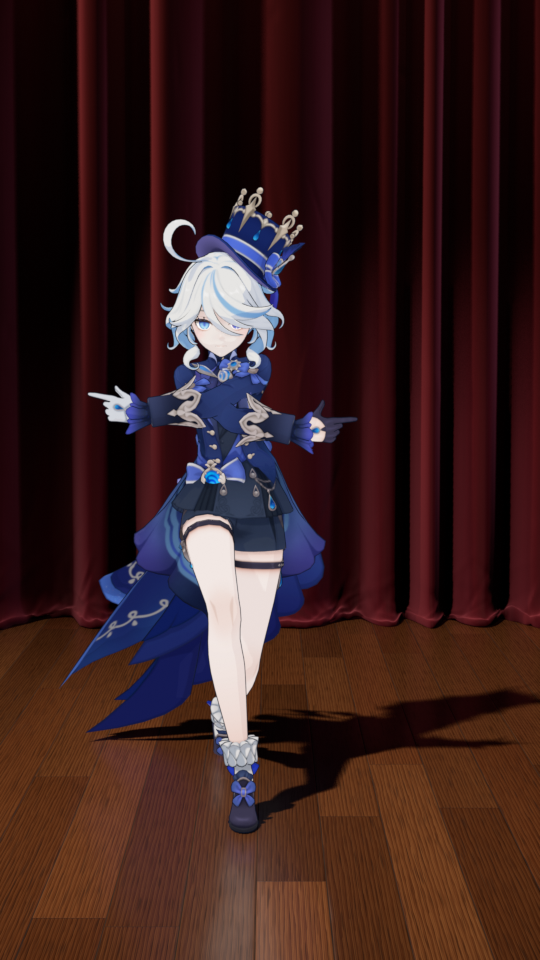
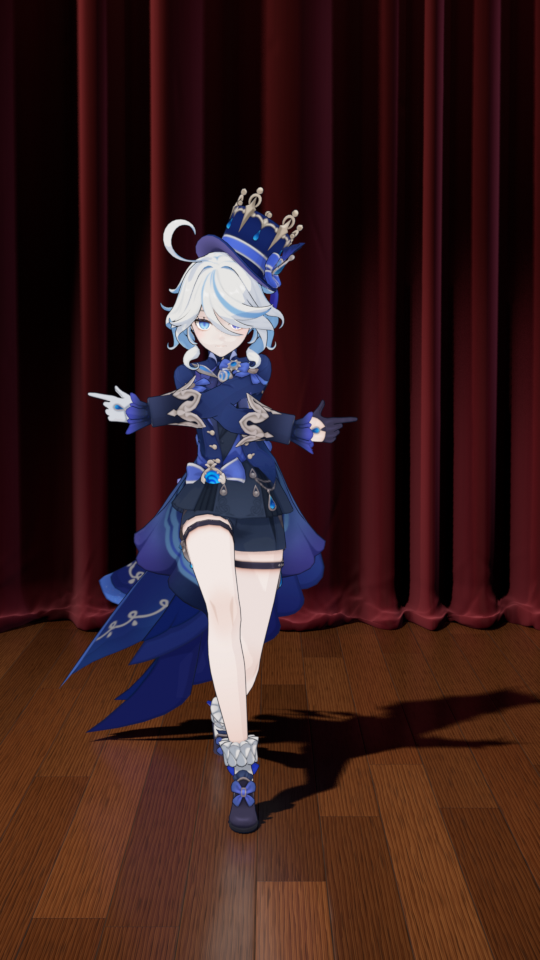
Furina stage: more curtain fabric pooled on the floor (HEM_POOL)
Claude-Session: https://claude.ai/code/session_01L4cWoHW4TJS3VpJN3nyY7z

diff --git a/furina_stage/add_stage.py b/furina_stage/add_stage.py
@@ -48,6 +48,8 @@ STAGE_FRONT_Y = -3.4     # 台口前沿
 # bunch_* 堆叠区（每隔多少米一处、挤多紧），drift 褶沿高度左右漂移，wobble 褶沿高度变深变浅
 CURTAIN_DRAPE = dict(mean_w=0.12, depth=0.11, sigma=0.3, bunch_every=3.0, bunch_amp=(0.3, 0.9),
                      drift=0.06, wobble=0.18, n_creases=200, crease_amp=(0.0015, 0.005))
+# 大幕落地堆布：forward 向台前鼓出多远，height 鼓包多高，nose 最前面折边的圆弧半径，lumps 揉皱起伏（米）
+HEM_POOL = dict(forward=0.14, forward_var=0.045, height=0.17, height_var=0.04, nose=0.026, lumps=0.014)
 PLANK_W = 0.15           # 地板条宽
 PLANK_L = 2.1            # 地板条长
 # 木纹公式的输入参数，每块板在基准值上随机浮动的比例（0.08 = ±8%）
@@ -556,9 +558,11 @@ def hanging_curtain(name, x0, x1, y0, height, rng, mat, coll, mean_w=0.2, depth=
     # 每一处堆布的尺寸沿宽度缓慢变化：鼓包向前伸 Ry、高 Rz，折边圆弧半径 r，藏在下面的布长 tail
     n1, n2 = _smooth_noise(rng, x0, x1, 0.3), _smooth_noise(rng, x0, x1, 0.9)
     big = 0.5 * n1(xs) + 0.5 * n2(xs)
-    Ry = np.clip(0.065 + 0.022 * big, 0.03, 0.11)
-    Rz = np.clip(0.12 + 0.035 * _smooth_noise(rng, x0, x1, 0.45)(xs) + 0.4 * (Ry - 0.065), 0.07, 0.2)
-    r = np.clip(0.017 + 0.005 * _smooth_noise(rng, x0, x1, 0.25)(xs), 0.01, 0.026)
+    h = HEM_POOL
+    Ry = np.clip(h["forward"] + h["forward_var"] * big, h["forward"] * 0.5, h["forward"] * 1.6)
+    Rz = np.clip(h["height"] + h["height_var"] * _smooth_noise(rng, x0, x1, 0.45)(xs) + 0.4 * (Ry - h["forward"]),
+                 h["height"] * 0.55, h["height"] * 1.6)
+    r = np.clip(h["nose"] * (1.0 + 0.3 * _smooth_noise(rng, x0, x1, 0.25)(xs)), h["nose"] * 0.6, h["nose"] * 1.5)
     tail = Ry * rng.uniform(0.6, 1.0)
     yn = -Ry                                             # 折边圆弧的圆心（相对 y0；台前是 -Y）
 
@@ -608,7 +612,7 @@ def hanging_curtain(name, x0, x1, y0, height, rng, mat, coll, mean_w=0.2, depth=
     lump = sum(np.sin(kx[k] * xs[None, :] + ks[k] * s[:, None] + ph[k]) for k in range(7)) / 3.0
     on_pile = np.zeros_like(BY)
     on_pile[6:n_pile] = np.sin(np.linspace(0, math.pi, n_pile - 6))[:, None]
-    C = C + on_pile * 0.008 * lump
+    C = C + on_pile * HEM_POOL["lumps"] * lump
 
     Y = y0 + off + BY + ny * C
     Z = BZ + nz * C

diff --git a/furina_stage/README.md b/furina_stage/README.md
@@ -4,7 +4,7 @@
 
 ## 文件
 - `add_stage.py`：在已有的芙宁娜场景（`Furina_Mesh` / `Furina_Rig` / `Cel Key` …）里生成舞台。可以重复运行，每次会先删掉上一次生成的再重建。
-- `preview_frame_0200.png`：用原来的动画相机渲染的第 200 帧（EEVEE，50% 分辨率）。
+- `preview_frame_0200.png`：用原来的动画相机渲染的第 200 帧（EEVEE，50% 分辨率）；`preview_hem_0200.png`：同一帧底边堆布的原分辨率局部。
 - 带人物的 `.blend` 不放进仓库（仓库是公开的，模型不便二次分发），单独发。
 
 ## 用法（Blender 5.2）
@@ -35,7 +35,9 @@ blender -b 模型.blend -P add_stage.py -- --render out/overview.png --overview
   每隔约 3 m 有一处温和的堆叠区（褶更挤更深）；截面前圆后尖、每段随机歪斜；顶部挂杆处渐渐被拉整齐。
   这些都在脚本顶部的 `CURTAIN_DRAPE` 里调（`drift` / `wobble` 调大，褶就会沿高度漂移、变深变浅，布显得更软）。
 - **细小皱纹** `add_creases()`：大幕上只有约 230 条很浅的近竖直折痕（不破坏垂坠），底边堆布上约 450 条短皱。
-- **底边堆布**：多出来的布“堆”在台面上——竖直垂下 → 向前弯出一个鼓包 → 在最前面绕一个小圆弧折回 → 剩下的布平铺在鼓包下面往后藏。台前看到的是圆润的折边（向前约 7–12 cm、高约 7–20 cm，沿宽度处处不同，上面还有揉皱的起伏和短皱），看不到布的末端。
+- **底边堆布**：多出来的布“堆”在台面上——竖直垂下 → 向前弯出一个鼓包 → 在最前面绕一个圆弧折回 → 剩下的布平铺在鼓包下面往后藏。台前看到的是圆润厚实的折边（向前约 10–20 cm、高约 10–25 cm，沿宽度处处不同，上面还有揉皱的起伏和短皱），看不到布的末端。尺寸在脚本顶部的 `HEM_POOL` 里调。
+
+  ![底边堆布（原分辨率局部）](preview_hem_0200.png)
 - **丝绒** `mat_velvet()`：正对视线时是深酒红，掠射角泛出偏玫红的绒光（层权重 + Sheen）；
   褶谷用几何里存的 `fold` 属性压暗；竖向绒毛条纹、大块深浅不一的“倒毛”明暗、小块“压绒”、细密织物凹凸。
 - **木地板** `mat_wood_floor()`：一个平面 + 程序材质。15 cm × 2.1 m 的长条，逐列随机错缝。
